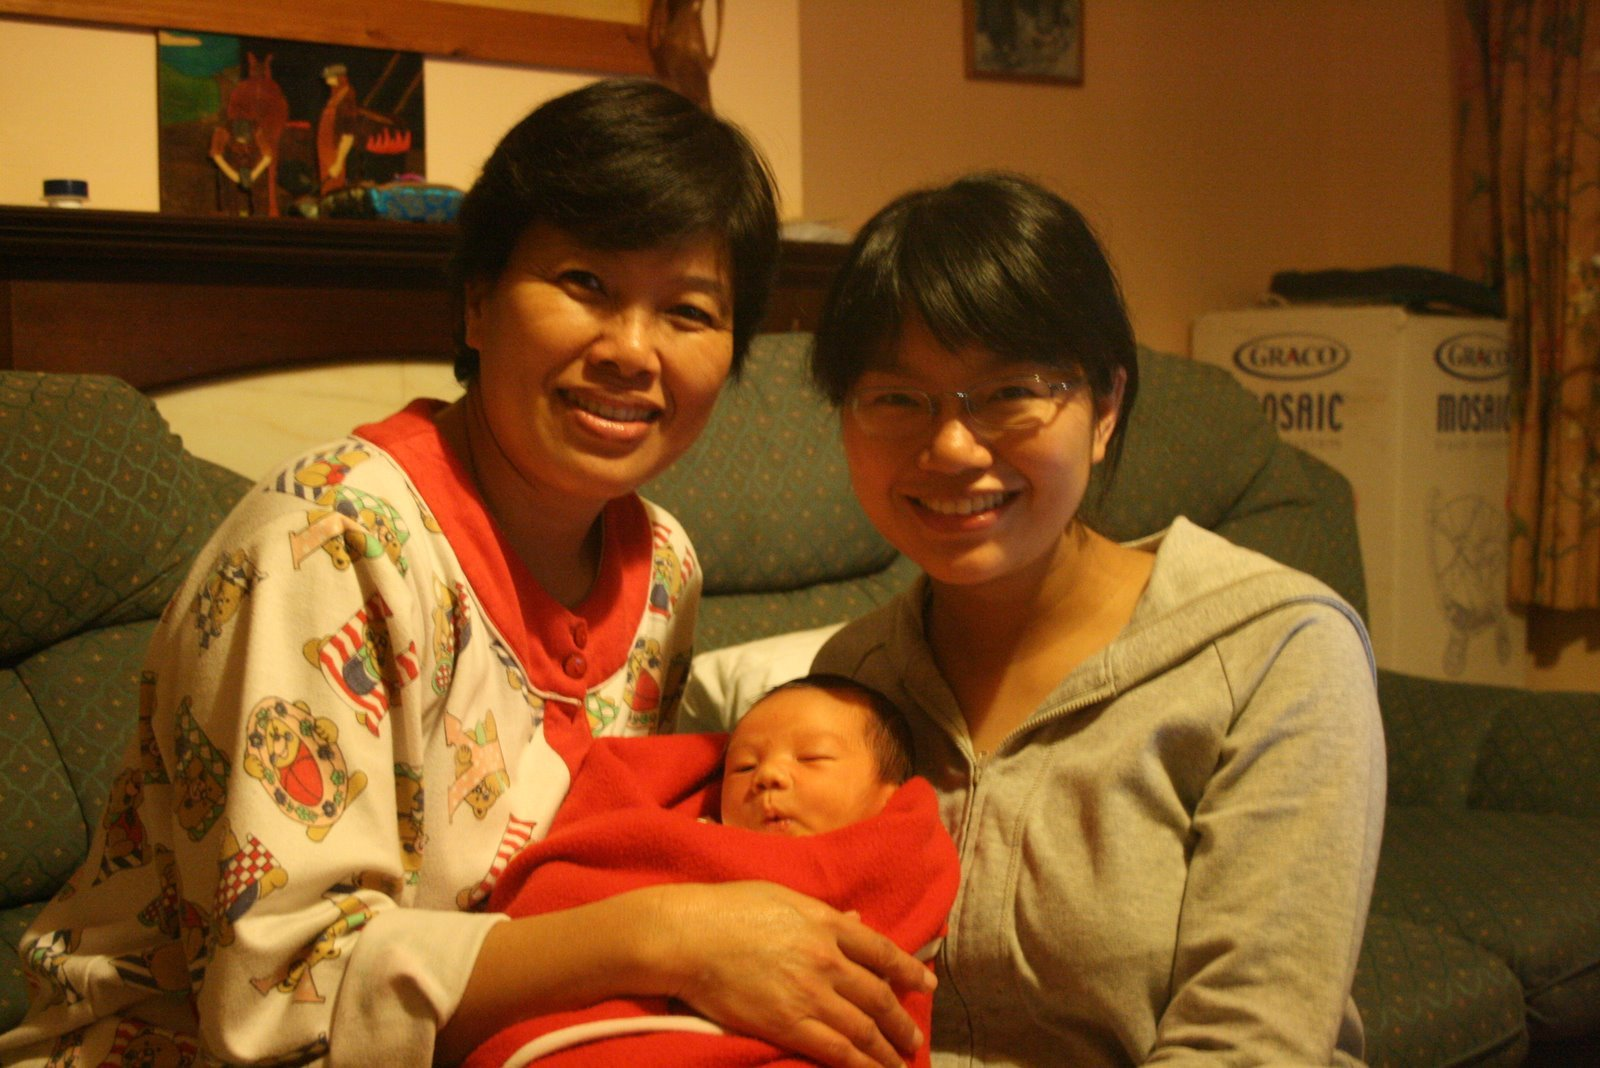
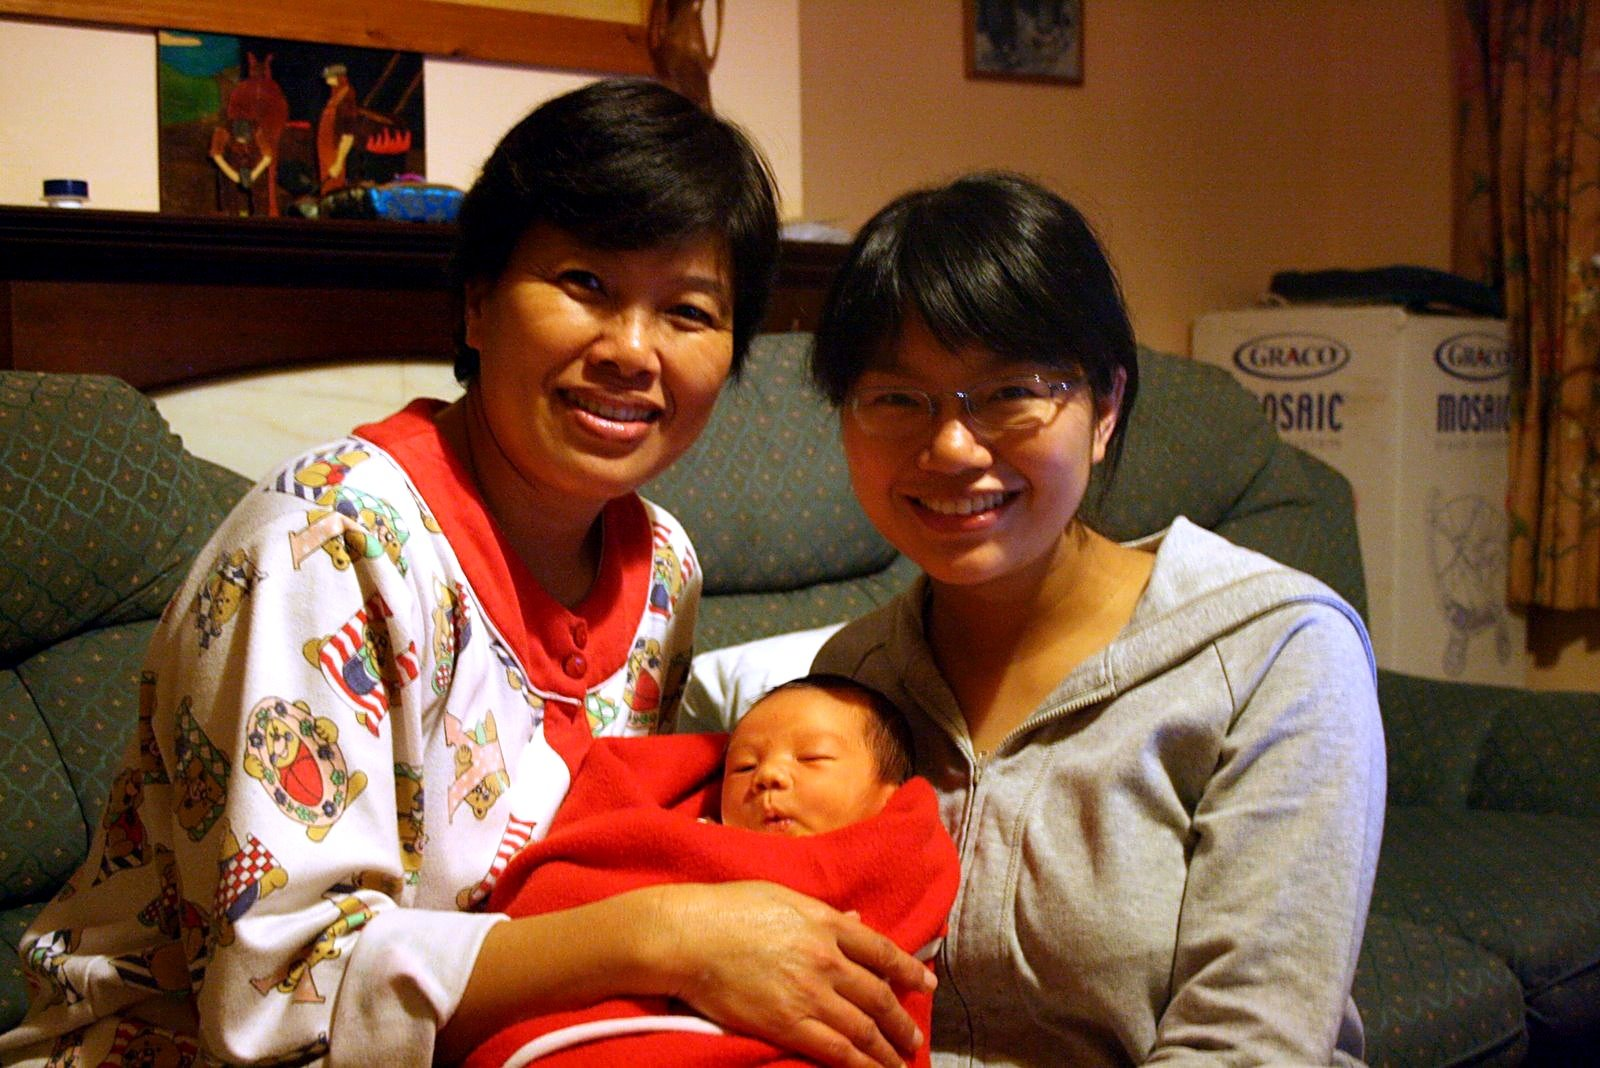
Replace p072/p086/p087 with white-balance-corrected versions (?v=20261013)

diff --git a/photos.js b/photos.js
@@ -498,8 +498,8 @@ const PHOTOS = [
     "desc": "爱尔兰戈尔韦海边，宁可、卢慧和外婆在圆月下合影，卢慧轻抚着肚子。"
   },
   {
-    "src": "photos/p072.jpg",
-    "thumb": "thumbs/t072.jpg",
+    "src": "photos/p072.jpg?v=20261013",
+    "thumb": "thumbs/t072.jpg?v=20261013",
     "when": "2007年10月11日",
     "title": "喜得大东",
     "desc": "家中，外婆和卢慧抱着刚出生的大东合影，笑容满面。"
@@ -596,15 +596,15 @@ const PHOTOS = [
     "desc": "漓江游船船舱里，外婆抱着大东休息，大东若有所思地望着一旁。"
   },
   {
-    "src": "photos/p086.jpg",
-    "thumb": "thumbs/t086.jpg",
+    "src": "photos/p086.jpg?v=20261013",
+    "thumb": "thumbs/t086.jpg?v=20261013",
     "when": "2010年2月13日",
     "title": "家中团聚",
     "desc": "家中，外婆抱着襁褓中的二东，卢慧搂着大东，一家人合影，笑容满面。"
   },
   {
-    "src": "photos/p087.jpg",
-    "thumb": "thumbs/t087.jpg",
+    "src": "photos/p087.jpg?v=20261013",
+    "thumb": "thumbs/t087.jpg?v=20261013",
     "when": "2010年2月13日",
     "title": "全家合影",
     "desc": "家中，外婆抱着新生不久的二东，和宁可、大东合影，大东吃着小手。"
